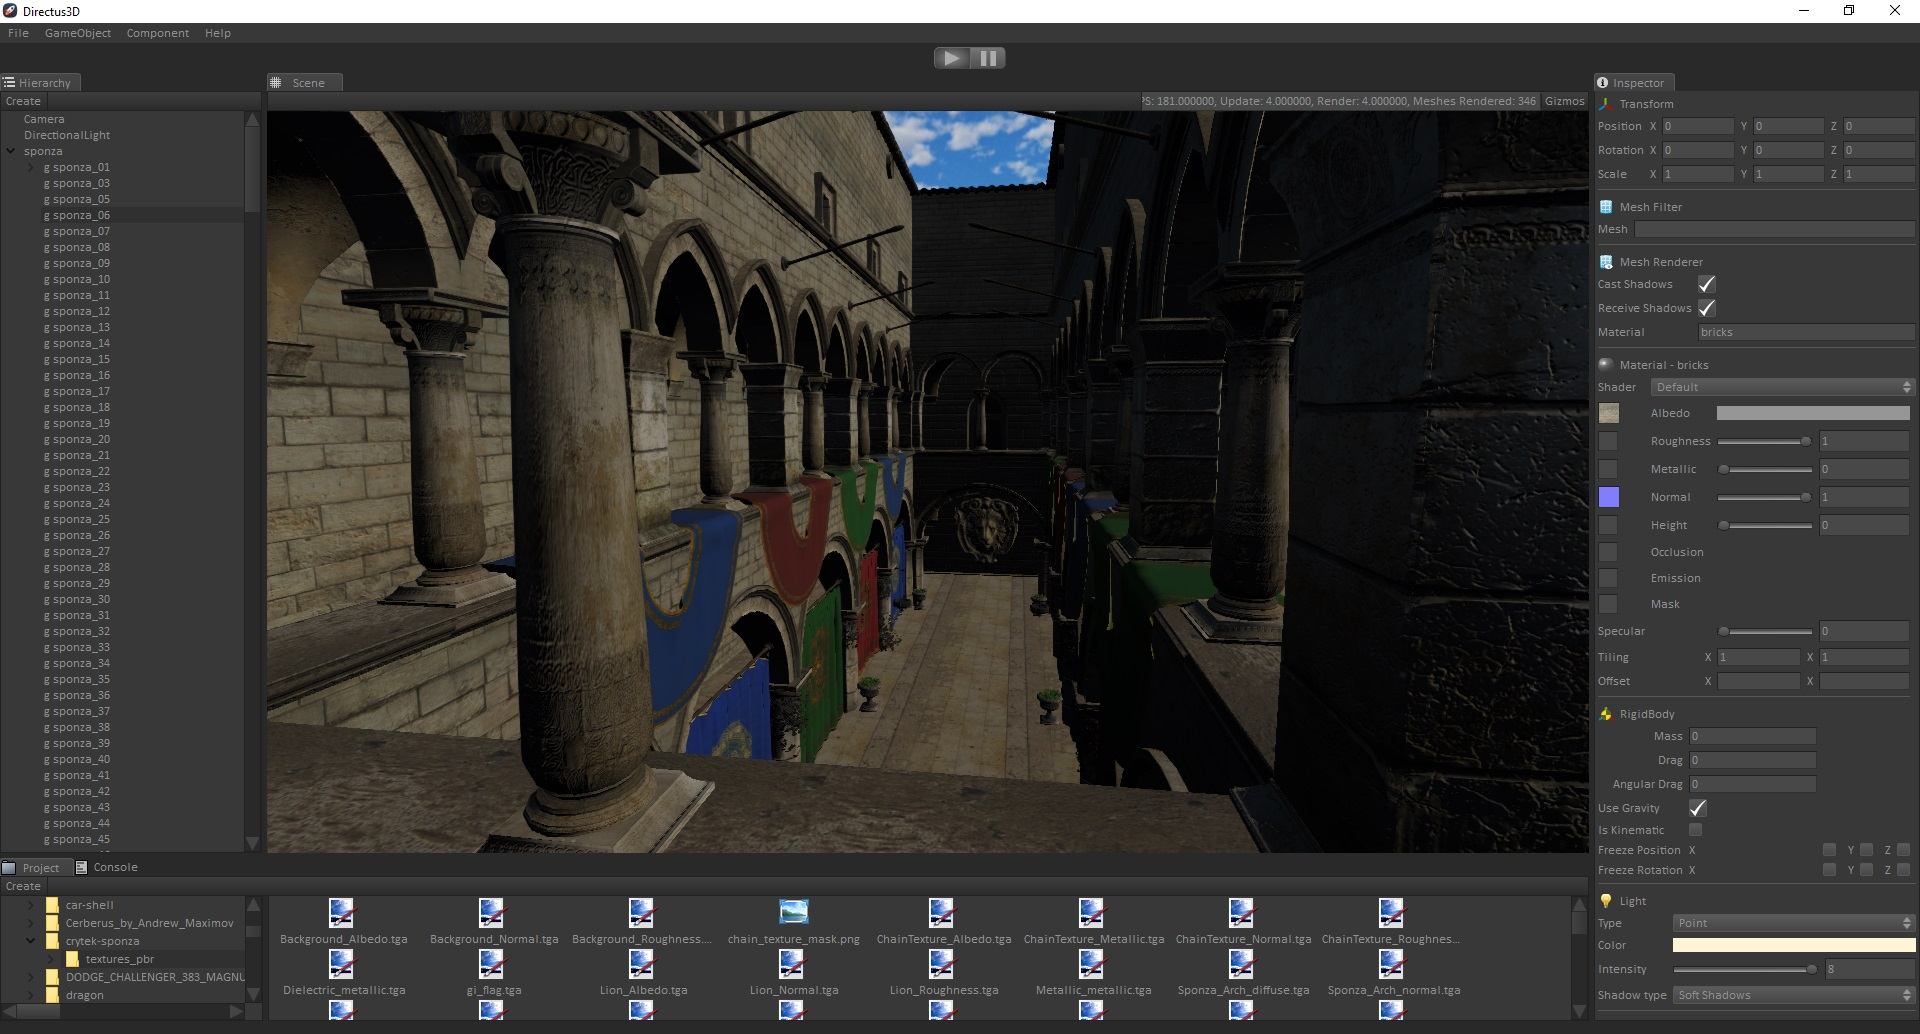
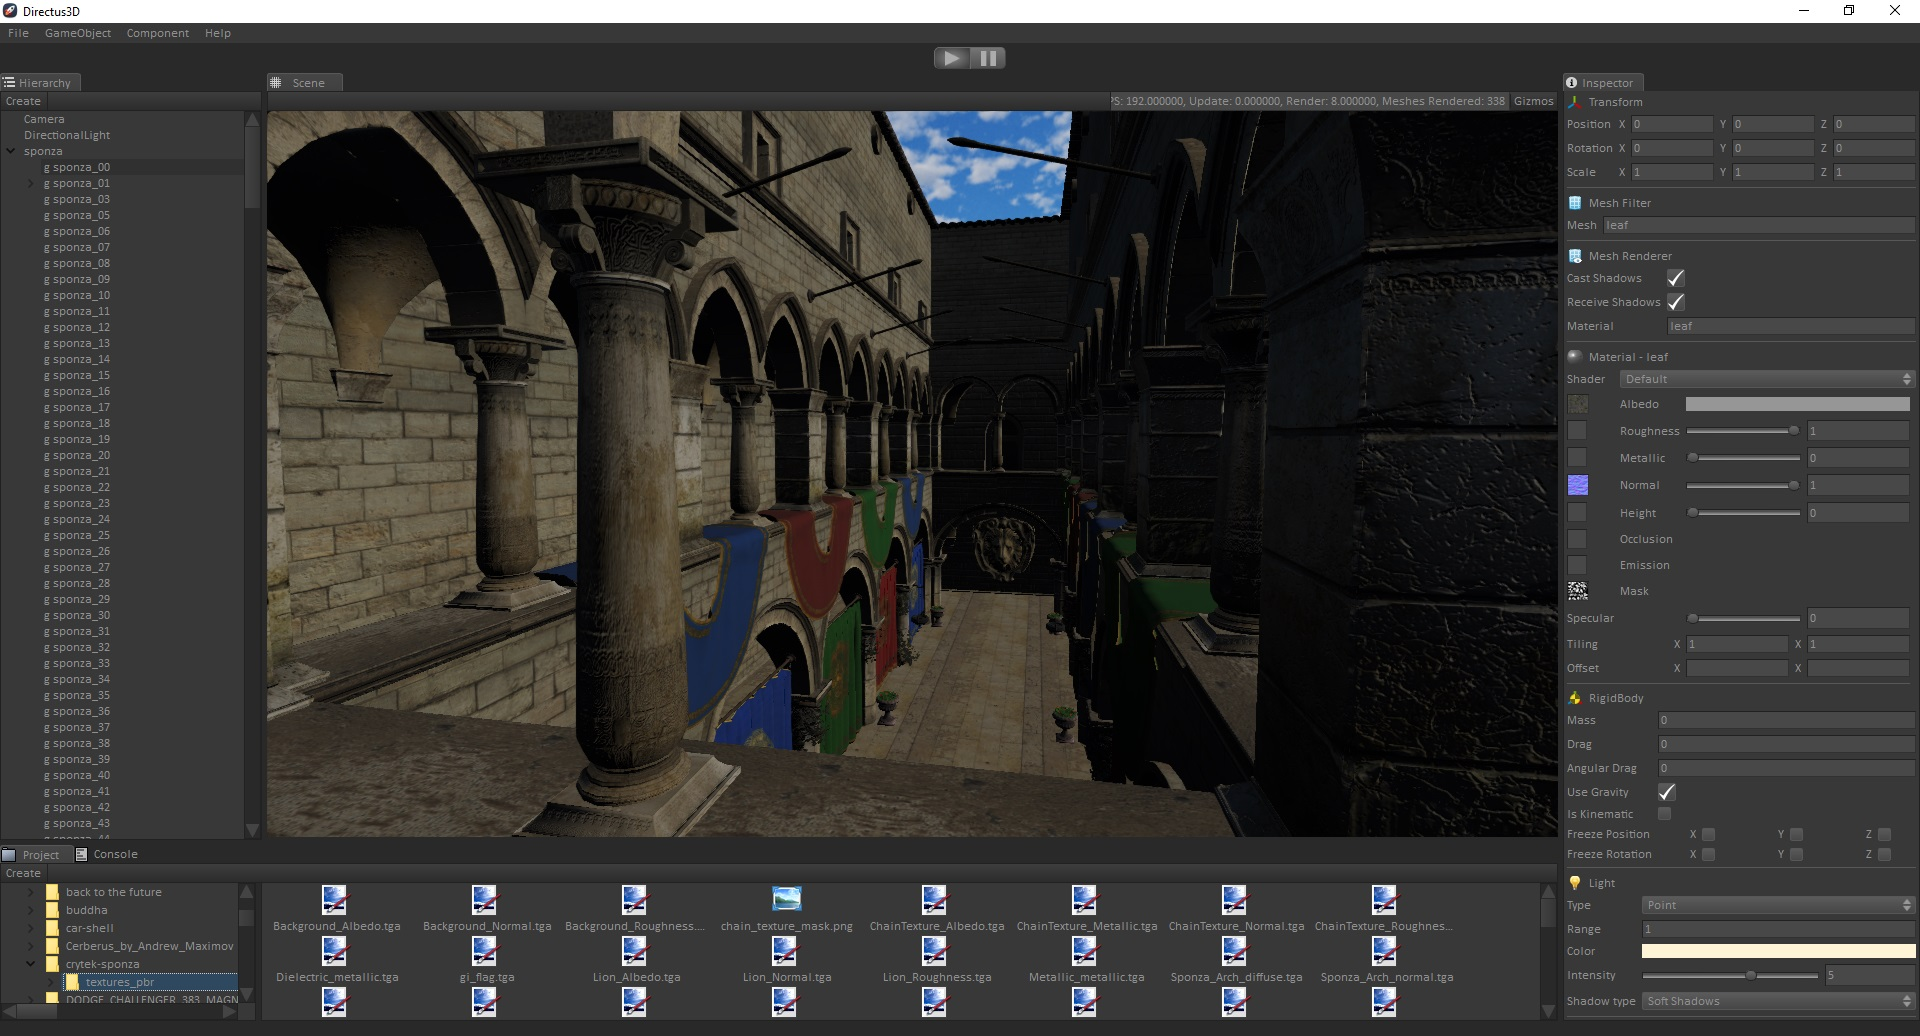
The inspector will now stack it's components nicely instead of spreading them.

diff --git a/Editor/DirectusTransform.cpp b/Editor/DirectusTransform.cpp
@@ -40,17 +40,6 @@ void DirectusTransform::Initialize(DirectusCore* directusCore)
 
     m_gridLayout = new QGridLayout();
     m_gridLayout->setMargin(4);
-    //this->setStyleSheet("background-color: #383838");
-    /*
-    widget background dark: 			292929
-    widget background light:				383838
-    widget background highlighted: 	484848
-    text color: 									909090
-    text highlighted:							 EDEDED
-    border: 										212121
-    border highlighted:						464646
-    text edit background:					414141
-    */
 
     m_validator = new QDoubleValidator(-2147483647, 2147483647, 4);
 
@@ -113,37 +102,37 @@ void DirectusTransform::Initialize(DirectusCore* directusCore)
     // addWidget(widget, row, column, rowspan, colspan)
     //= GRID ==================================================
     // Row 0 - TITLE
-    m_gridLayout->addWidget(m_title, 0, 0, 1, 7);
+    m_gridLayout->addWidget(m_title,                        0, 0, 1, 7);
 
     // Row 1 - POSITION
-    m_gridLayout->addWidget(m_posLabel,    1, 0, 1, 1);
-    m_gridLayout->addWidget(m_posX->GetLabelWidget(),   1, 1, 1, 1);
+    m_gridLayout->addWidget(m_posLabel,                     1, 0, 1, 1);
+    m_gridLayout->addWidget(m_posX->GetLabelWidget(),       1, 1, 1, 1);
     m_gridLayout->addWidget(m_posX->GetTextWidget(),        1, 2, 1, 1);
-    m_gridLayout->addWidget(m_posY->GetLabelWidget(),   1, 3, 1, 1);
+    m_gridLayout->addWidget(m_posY->GetLabelWidget(),       1, 3, 1, 1);
     m_gridLayout->addWidget(m_posY->GetTextWidget(),        1, 4, 1, 1);
-    m_gridLayout->addWidget(m_posZ->GetLabelWidget(),   1, 5, 1, 1);
+    m_gridLayout->addWidget(m_posZ->GetLabelWidget(),       1, 5, 1, 1);
     m_gridLayout->addWidget(m_posZ->GetTextWidget(),        1, 6, 1, 1);
 
     // Row 2 - ROTATION
-    m_gridLayout->addWidget(m_rotLabel,    2, 0, 1, 1);
-    m_gridLayout->addWidget(m_rotX->GetLabelWidget(),   2, 1, 1, 1);
+    m_gridLayout->addWidget(m_rotLabel,                     2, 0, 1, 1);
+    m_gridLayout->addWidget(m_rotX->GetLabelWidget(),       2, 1, 1, 1);
     m_gridLayout->addWidget(m_rotX->GetTextWidget(),        2, 2, 1, 1);
-    m_gridLayout->addWidget(m_rotY->GetLabelWidget(),   2, 3, 1, 1);
+    m_gridLayout->addWidget(m_rotY->GetLabelWidget(),       2, 3, 1, 1);
     m_gridLayout->addWidget(m_rotY->GetTextWidget(),        2, 4, 1, 1);
-    m_gridLayout->addWidget(m_rotZ->GetLabelWidget(),   2, 5, 1, 1);
+    m_gridLayout->addWidget(m_rotZ->GetLabelWidget(),       2, 5, 1, 1);
     m_gridLayout->addWidget(m_rotZ->GetTextWidget(),        2, 6, 1, 1);
 
     // Row 3 - SCALE
-    m_gridLayout->addWidget(m_scaLabel,    3, 0, 1, 1);
-    m_gridLayout->addWidget(m_scaX->GetLabelWidget(),   3, 1, 1, 1);
+    m_gridLayout->addWidget(m_scaLabel,                     3, 0, 1, 1);
+    m_gridLayout->addWidget(m_scaX->GetLabelWidget(),       3, 1, 1, 1);
     m_gridLayout->addWidget(m_scaX->GetTextWidget(),        3, 2, 1, 1);
-    m_gridLayout->addWidget(m_scaY->GetLabelWidget(),   3, 3, 1, 1);
+    m_gridLayout->addWidget(m_scaY->GetLabelWidget(),       3, 3, 1, 1);
     m_gridLayout->addWidget(m_scaY->GetTextWidget(),        3, 4, 1, 1);
-    m_gridLayout->addWidget(m_scaZ->GetLabelWidget(),   3, 5, 1, 1);
+    m_gridLayout->addWidget(m_scaZ->GetLabelWidget(),       3, 5, 1, 1);
     m_gridLayout->addWidget(m_scaZ->GetTextWidget(),        3, 6, 1, 1);
 
     // Row 4 - LINE
-    m_gridLayout->addWidget(m_line,    4, 0, 1, 7);
+    m_gridLayout->addWidget(m_line,                         4, 0, 1, 7);
 
     // textChanged(QString) -> emits signal when changed through code
     // textEdited(QString) -> doesn't emit signal when changed through code

diff --git a/Editor/DirectusInspector.cpp b/Editor/DirectusInspector.cpp
@@ -68,6 +68,7 @@ void DirectusInspector::Initialize(QWidget* mainWindow)
     m_script = new DirectusScript();
     m_script->Initialize(m_directusCore);
 
+    this->layout()->setAlignment(Qt::AlignTop);
     this->layout()->addWidget(m_transform);
     this->layout()->addWidget(m_camera);
     this->layout()->addWidget(m_meshFilter);
